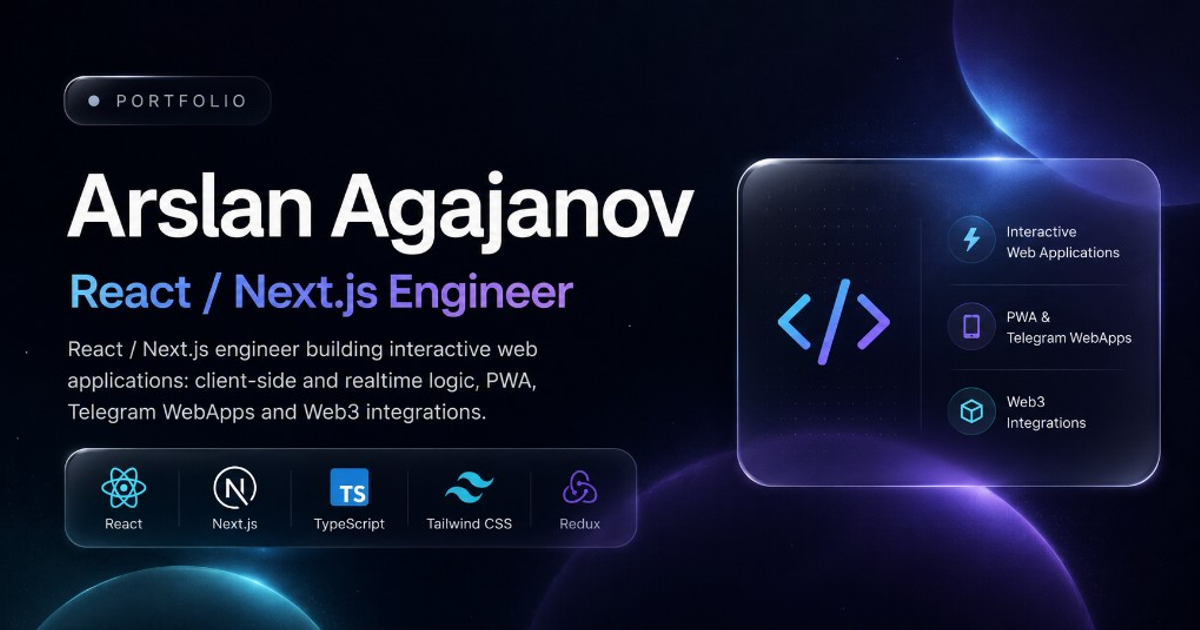
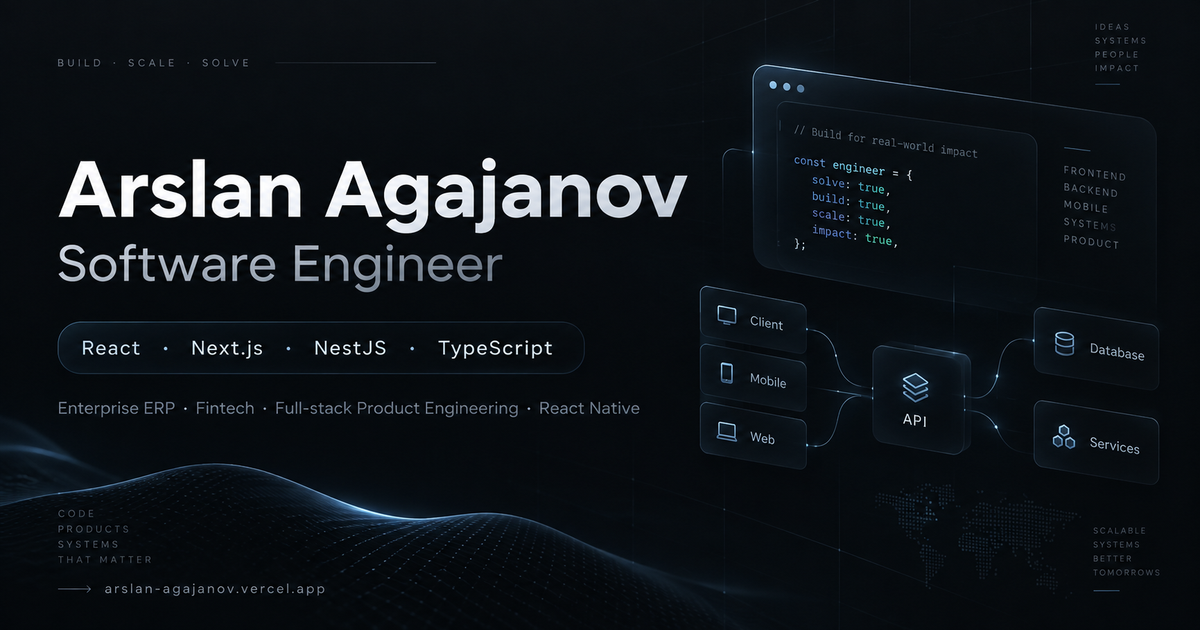
feat:sofware

diff --git a/data/portfolio-meta.ts b/data/portfolio-meta.ts
@@ -66,8 +66,12 @@ export const projectOrder: ProjectMeta[] = [
     language: "TypeScript",
     stack: [
       "Next.js",
-      "Next.js App Router",
+      "React",
       "TypeScript",
+      "NestJS",
+      "Node.js",
+      "PostgreSQL",
+      "Prisma",
       "Tailwind CSS v4",
       "shadcn/ui",
       "TanStack Query",
@@ -81,11 +85,15 @@ export const projectOrder: ProjectMeta[] = [
         { id: "browser", label: "Browser", subtitle: "Operators · RBAC UI" },
         { id: "next", label: "Next.js", subtitle: "App Router · forms · grids" },
         {
-          id: "query",
-          label: "TanStack Query",
-          subtitle: "Server state · cache",
+          id: "api",
+          label: "NestJS API",
+          subtitle: "REST · Auth · RBAC",
         },
-        { id: "api", label: "ERP API", subtitle: "Auth · RBAC · domains" },
+        {
+          id: "db",
+          label: "PostgreSQL",
+          subtitle: "Prisma · domains",
+        },
       ],
       dataLayer: ["Finance", "Warehouse", "HR", "Projects", "Office"],
     },
@@ -263,44 +271,47 @@ export type SkillGroupKey = (typeof skillGroupOrder)[number];
 
 export const skillItems: Record<SkillGroupKey, string[]> = {
   architecture: [
-    "React 19",
+    "React",
     "Next.js",
-    "App Router",
-    "RSC",
-    "SSR / ISR",
     "TypeScript",
-  ],
-  dataState: [
     "TanStack Query",
     "TanStack Table",
     "Zustand",
     "Redux",
-    "URL state",
+  ],
+  dataState: [
+    "NestJS",
+    "Node.js",
+    "Prisma",
+    "PostgreSQL",
+    "REST APIs",
+    "Authentication",
+    "RBAC",
   ],
   ui: [
-    "Tailwind CSS",
+    "Tailwind CSS v4",
     "shadcn/ui",
-    "Radix / Base UI",
+    "React Hook Form",
+    "Zod",
     "Framer Motion",
-    "Responsive UI",
   ],
-  forms: ["React Hook Form", "Zod", "Complex CRUD forms"],
+  forms: ["React Native"],
   integrations: [
-    "REST",
     "GraphQL",
-    "WebSocket",
+    "Hasura",
+    "Firebase",
+    "Web3",
     "WalletConnect",
-    "TronLink",
     "Telegram Web Apps",
   ],
   engineering: [
-    "Vitest",
-    "Cypress",
     "Docker",
     "Linux",
     "Nginx",
     "Git",
     "Vercel",
+    "Vitest",
+    "Cypress",
   ],
 };
 
@@ -308,8 +319,8 @@ export const skillItems: Record<SkillGroupKey, string[]> = {
 export const skillGroupStatus: Record<SkillGroupKey, "proven" | "active"> = {
   architecture: "proven",
   dataState: "proven",
-  ui: "active",
-  forms: "proven",
+  ui: "proven",
+  forms: "active",
   integrations: "proven",
   engineering: "active",
 };
@@ -325,18 +336,19 @@ export const contacts = {
 
 export const personName = "Arslan Agajanov";
 
-export const jobTitle = "Frontend / Software Engineer";
+export const jobTitle = "Software Engineer";
 
 export const knowsAbout = [
+  "Software Engineering",
+  "TypeScript",
   "React",
   "Next.js",
-  "TypeScript",
-  "Frontend Development",
-  "Software Engineering",
+  "NestJS",
+  "Node.js",
+  "React Native",
+  "PostgreSQL",
+  "REST APIs",
   "Enterprise Software",
   "ERP",
   "Fintech",
-  "REST APIs",
-  "NestJS",
-  "PostgreSQL",
 ] as const;

diff --git a/lib/site-metadata.ts b/lib/site-metadata.ts
@@ -1,9 +1,9 @@
 import type { Metadata } from "next";
 import { jobTitle, personName, siteUrl } from "@/data/portfolio-meta";
 
-const title = `${personName} — ${jobTitle} | React, Next.js, TypeScript`;
+const title = `${personName} — ${jobTitle} | React, Next.js, NestJS, TypeScript`;
 const description =
-  "Frontend / Software Engineer with 6+ years building production React, Next.js and TypeScript applications across enterprise ERP, fintech, and API-driven systems.";
+  "Software Engineer with 6+ years of experience building React, Next.js, NestJS and TypeScript applications across enterprise ERP, fintech and API-driven systems.";
 
 const ogImage = {
   url: "/og-image.png",

diff --git a/components/certifications-list.tsx b/components/certifications-list.tsx
@@ -20,6 +20,11 @@ export function CertificationsList({ items }: { items: ResolvedCertification[] }
             <p className="mt-2 text-xs uppercase tracking-wide break-words text-[var(--muted)]">
               {item.provider} · {item.year}
             </p>
+            {item.detail ? (
+              <p className="mt-2 text-sm leading-relaxed break-words text-[var(--muted-strong)]">
+                {item.detail}
+              </p>
+            ) : null}
           </article>
         </motion.div>
       ))}

diff --git a/app/manifest.ts b/app/manifest.ts
@@ -6,7 +6,7 @@ export default function manifest(): MetadataRoute.Manifest {
     name: `${personName} — Portfolio`,
     short_name: personName,
     description:
-      "Frontend / Software Engineer portfolio — React, Next.js, TypeScript, enterprise ERP and fintech",
+      "Software Engineer portfolio — React, Next.js, NestJS, TypeScript, enterprise ERP and fintech",
     start_url: "/en",
     display: "standalone",
     background_color: "#09090b",

diff --git a/lib/portfolio-content.ts b/lib/portfolio-content.ts
@@ -76,6 +76,8 @@ export type ResolvedCertification = {
   title: string;
   provider: string;
   year: string;
+  /** Optional note distinguishing training from commercial experience */
+  detail?: string;
 };
 
 function resolveBaseProject(
